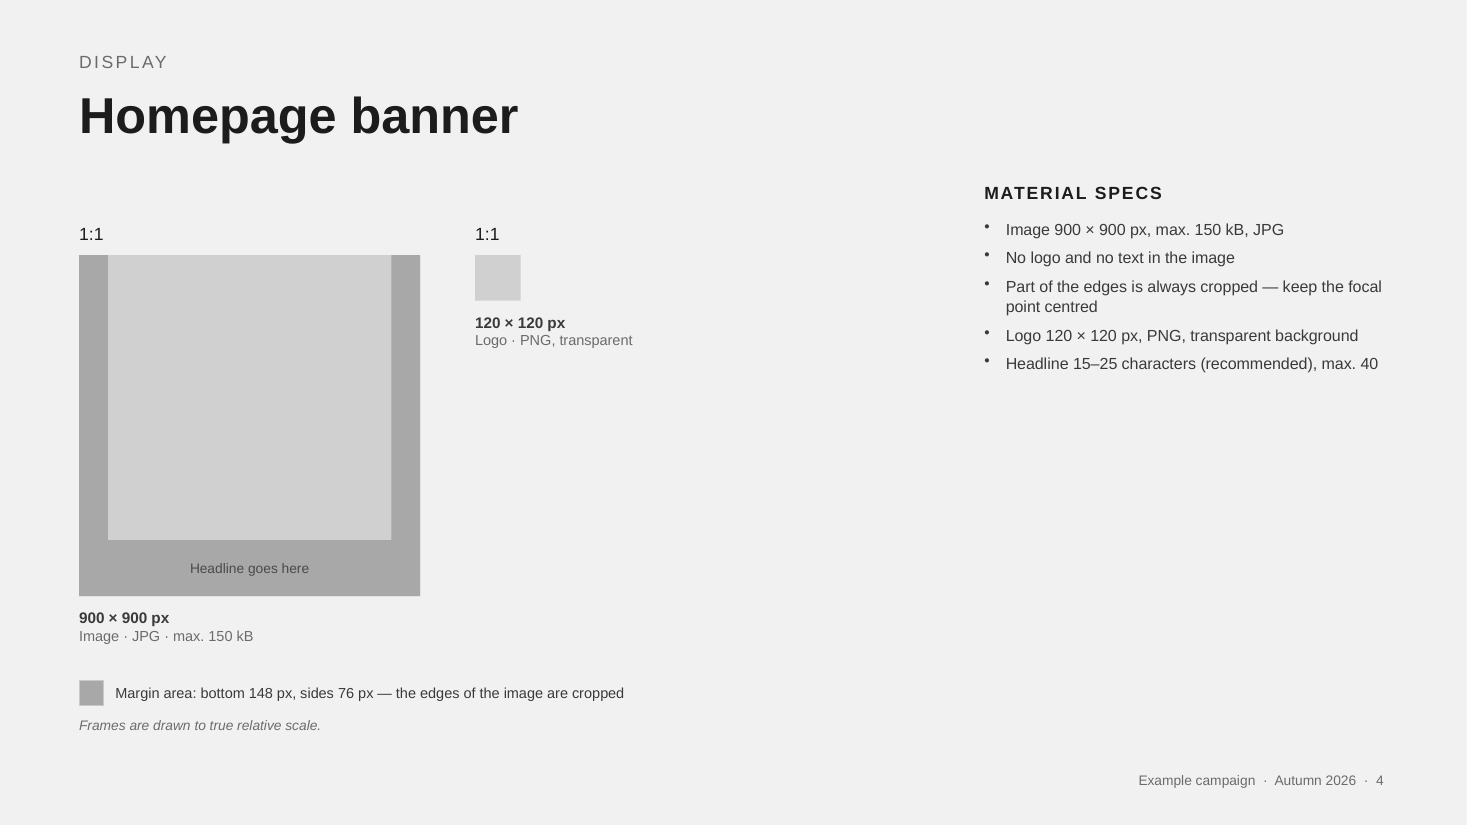
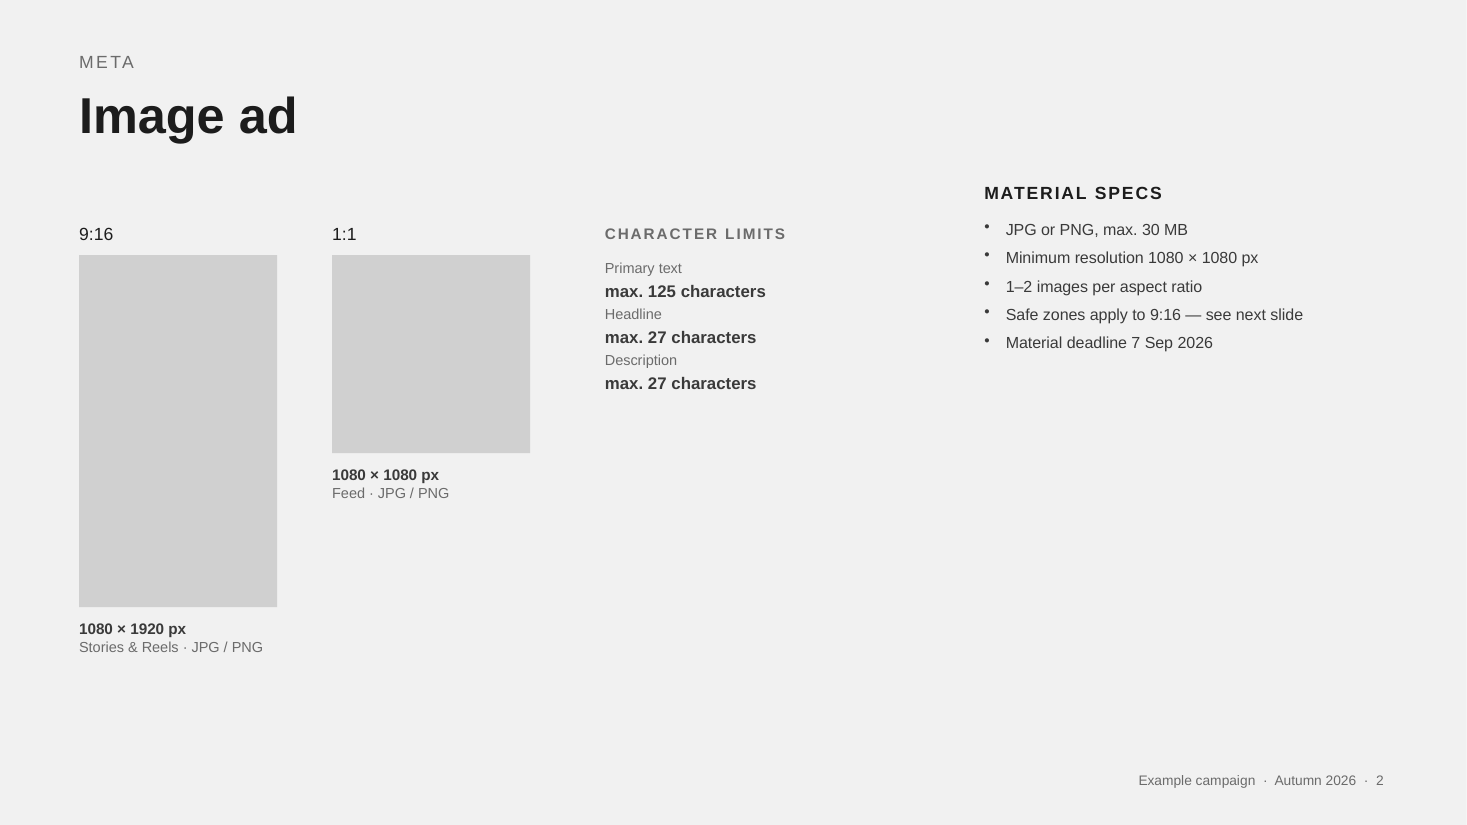
Use a Meta image ad as the example format slide
The README screenshot showed a display banner taken from one publisher's
spec sheet — an unusual format to lead with. Replace it with a Meta image
ad (9:16 Stories/Reels + 1:1 Feed), which is the format most people
recognise.

- example-deck.json: the Meta slide becomes "Image ad" with 9:16 first,
  realistic character limits (primary text / headline / description) and
  file specs; safe-zone slide aligned to the same 1080-px assets and frame
  order, with its px figures recomputed against 1080 x 1920
- overview card, cover channel line and schedule row renamed to Meta
- middle column moved to x 5.5 to close the gap left by the narrower frame
  row; safe-zone legend moved to y 6.35 so the 9:16 caption clears it
- deck-schema.md examples follow the same naming
- docs/example-format.png re-rendered from the new slide

All 8 slides re-rendered and checked for collisions and overflow.

Claude-Session: https://claude.ai/code/session_01A281DiLpeJrs4NR1pzvs7h

diff --git a/references/deck-schema.md b/references/deck-schema.md
@@ -51,7 +51,7 @@ Every slide takes `type`, `notes` (speaker notes, always write them) and optiona
   "title": "Campaign name",
   "titleSize": 54,                       // drop to 44 for long titles
   "subtitle": "Material requirements by channel",
-  "meta": ["Social · Display · Print", "Campaign period 1 Sep – 31 Oct 2026"],
+  "meta": ["Meta · Display · Print", "Campaign period 1 Sep – 31 Oct 2026"],
   "frames": [ { "label": "9:16", "w": 1080, "h": 1920 } ],
   "note": "First deadline 21 Aug 2026"       // bottom-right, replaces footer
 }
@@ -68,8 +68,8 @@ Every slide takes `type`, `notes` (speaker notes, always write them) and optiona
   "title": "Deliverables",
   "cardHeight": 3.4,                     // tune until the note sits just under the bullets
   "cards": [
-    { "title": "Social", "subtitle": "3 asset groups",
-      "lines": ["Brand image 1:1", "Brand image 9:16"],
+    { "title": "Meta", "subtitle": "3 asset groups",
+      "lines": ["Image ad 9:16", "Image ad 1:1"],
       "note": "Same assets for both flights" }
   ],
   "note": "Line under all cards"
@@ -83,8 +83,8 @@ Every slide takes `type`, `notes` (speaker notes, always write them) and optiona
 ```jsonc
 {
   "type": "format",
-  "eyebrow": "SOCIAL",
-  "title": "Brand images",
+  "eyebrow": "META",
+  "title": "Image ad",
   "frames": [ /* see below */ ],
   "frameOpts": { "top": 2.32, "maxH": 3.2, "availW": 5.2, "gap": 0.5, "left": 0.72 },
   "blocks": [ /* see below */ ],

diff --git a/README.md b/README.md
@@ -4,7 +4,7 @@ A Claude skill that turns media agency material specifications into a production
 
 Built for a workflow that ends in Canva: import the deck, drop finished artwork onto the frames, done.
 
-![slide type: format](docs/example-format.png)
+![A format slide: Meta image ad, 9:16 and 1:1 frames drawn to true relative scale, with character limits and material specs](docs/example-format.png)
 
 ## What it does
 
